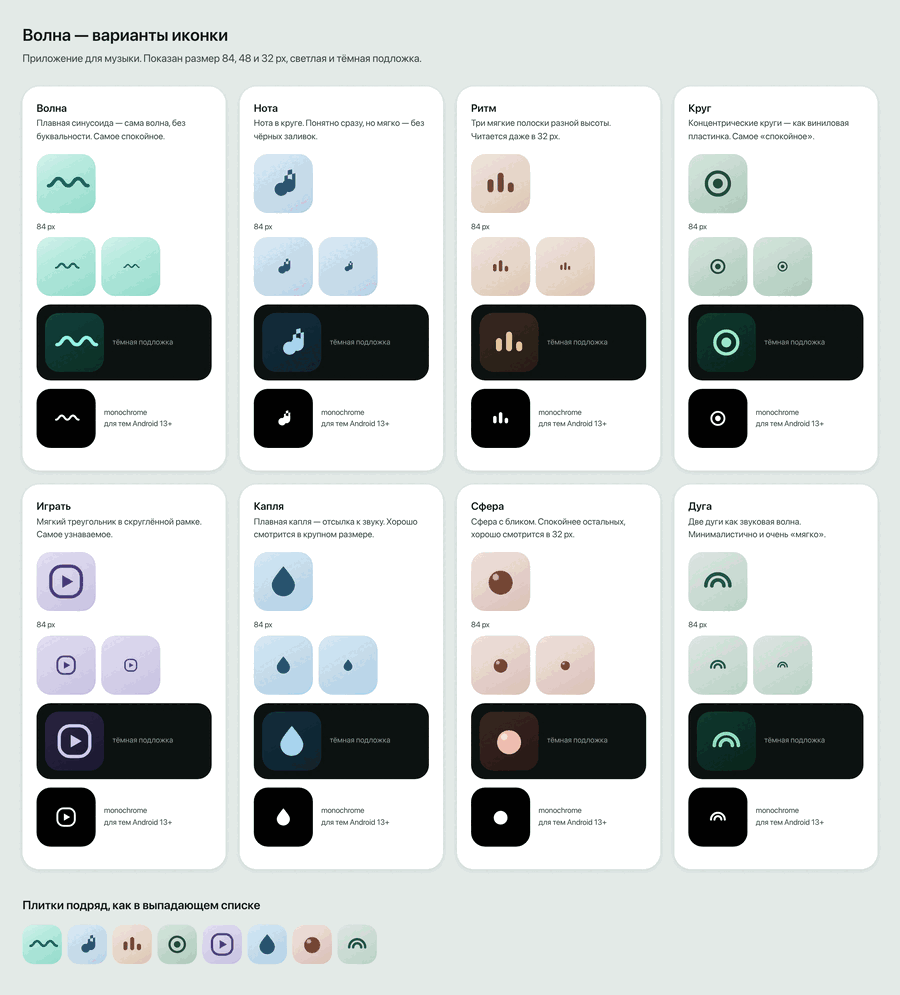
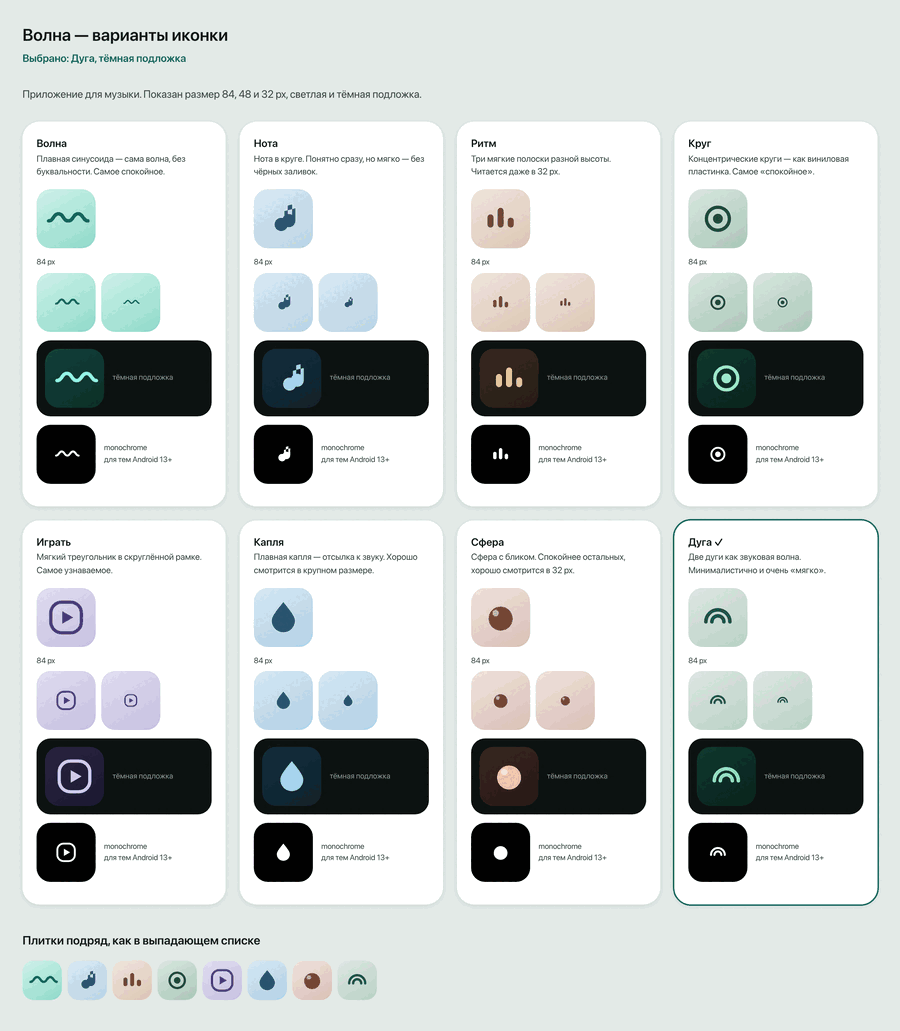
Иконка: выбрана «Дуга» на тёмной подложке
Фигура — две дуги #94E2BE, подложка — градиент #0F3A2E → #0A221A.
Добавлен слой monochrome для тем Android 13+.

Раньше иконка существовала только в mipmap-anydpi-v26, но minSdk = 24:
на Android 7.x лаунчер не нашёл бы ресурс. Теперь есть растровые PNG
для всех пяти плотностей (mdpi…xxxhdpi), обычный и круглый варианты.

Дуги сдвинуты на 2 единицы вниз от математического центра: у купола
центр тяжести выше геометрического, иначе фигура висела выше центра.

Удалён неиспользуемый цвет-ресурс ic_launcher_background.

diff --git a/design/icons.html b/design/icons.html
@@ -26,6 +26,7 @@
 </head>
 <body>
 <h1>Волна — варианты иконки</h1>
+<p class="sub" style="color:#14655C;font-weight:600">Выбрано: Дуга, тёмная подложка</p>
 <p class="sub">Приложение для музыки. Показан размер 84, 48 и 32 px, светлая и тёмная подложка.</p>
 <div class="grid" id="grid"></div>
 <h3>Плитки подряд, как в выпадающем списке</h3>
@@ -75,8 +76,8 @@ function tile(icon,variant,px,cls){
   return `<div class="tile ${cls||''}" style="background:${v.bg}">${svg(icon,v.fg,px)}</div>`;
 }
 document.getElementById('grid').innerHTML=Object.values(icons).map(i=>`
-  <div class="card">
-    <h2>${i.name}</h2><p>${i.desc}</p>
+  <div class="card" style="${i.name==='Дуга'?'outline:2.5px solid #14655C;':''}">
+    <h2>${i.name}${i.name==='Дуга'?' ✓':''}</h2><p>${i.desc}</p>
     <div class="row">${tile(i,'light')}<div><div class="lbl">84 px</div>
       <div class="row" style="margin:6px 0 0;gap:8px">${tile(i,'light',48)}${tile(i,'light',32)}</div></div></div>
     <div class="row dark" style="padding:12px;border-radius:20px">

diff --git a/design/render.html b/design/render.html
@@ -1,0 +1,24 @@
+<!DOCTYPE html>
+<html lang="ru">
+<head>
+<meta charset="utf-8">
+<title>Volna — рендер иконки</title>
+<style>body{margin:0;background:#fff}</style>
+</head>
+<body>
+<!-- Холст 108×108 = safe-зона adaptive-иконки; PNG рендерится в 432 и уменьшается. -->
+<svg id="icon" xmlns="http://www.w3.org/2000/svg" width="432" height="432" viewBox="0 0 108 108">
+  <defs>
+    <linearGradient id="bg" x1="0" y1="0" x2="1" y2="1">
+      <stop offset="0%" stop-color="#0F3A2E"/>
+      <stop offset="100%" stop-color="#0A221A"/>
+    </linearGradient>
+  </defs>
+  <rect width="108" height="108" fill="url(#bg)"/>
+  <g fill="none" stroke="#94E2BE" stroke-width="6.5" stroke-linecap="round">
+    <path d="M32,66a22,22 0 0 1 44,0"/>
+    <path d="M43,66a11,11 0 0 1 22,0"/>
+  </g>
+</svg>
+</body>
+</html>

diff --git a/design/README.md b/design/README.md
@@ -17,18 +17,29 @@
 | **Сфера** | круг с бликом | терракотовый | объёмное и спокойное |
 | **Дуга** | две дуги | зелёный | минималистичное |
 
-Сейчас в приложении стоит **Волна**: она совпадает с бирюзовой палитрой темы и
-мягче остальных — под стать названию.
+Выбрана **Дуга** на тёмной подложке: две дуги `#94E2BE` по градиенту
+`#0F3A2E → #0A221A`. Минималистично, спокойно и хорошо читается в любом размере.
 
-## Как применить другой вариант
+## Что уже в проекте
+
+- `app/src/main/res/drawable/ic_launcher_foreground.xml` — контуры дуг (vector)
+- `app/src/main/res/drawable/ic_launcher_background.xml` — градиентная подложка
+- `app/src/main/res/mipmap-anydpi-v26/` — adaptive-иконка, включая слой
+  `monochrome` для тем Android 13+
+- `app/src/main/res/mipmap-*dpi/` — растровые иконки для Android 7.x
+  (`minSdk = 24`, а adaptive-иконки появились только в Android 8.0)
+- `design/render.html` — исходник, из которого рендерятся PNG
+
+Фигура сдвинута на 2 единицы вниз от математического центра: у купола центр
+тяжести выше геометрического, и без сдвига дуги висят под потолком.
+
+## Как поменять на другой вариант
 
 1. Открыть `icons.html`, выбрать нужный.
 2. Взять его `art` из блока `<script>` — там одна строка SVG с `FILL` вместо цвета.
-3. Вписать в `app/src/main/res/drawable/ic_launcher_foreground.xml`, заменив
-   `FILL` на цвет из `light.fg`.
-4. Поменять `android:background` в `mipmap-anydpi-v26/ic_launcher.xml` и
-   `ic_launcher_round.xml`, если нужен свой фон вместо `@color/ic_launcher_background`.
+3. Вписать в `ic_launcher_foreground.xml`, заменив `FILL` на цвет из `light.fg`.
+4. Поменять цвета градиента в `ic_launcher_background.xml`.
+5. Перерисовать PNG: отредактировать `render.html` и заново выполнить рендер
+   в `mipmap-*dpi` (нужен chromium; команды — в истории репозитория).
 
 Цвета подложки лежат рядом с каждой фигурой: `light.bg` и `dark.bg`.
-Для Android 13+ есть третий слой — `monochrome`, он рисуется цветом темы,
-поэтому фон для него не нужен.
